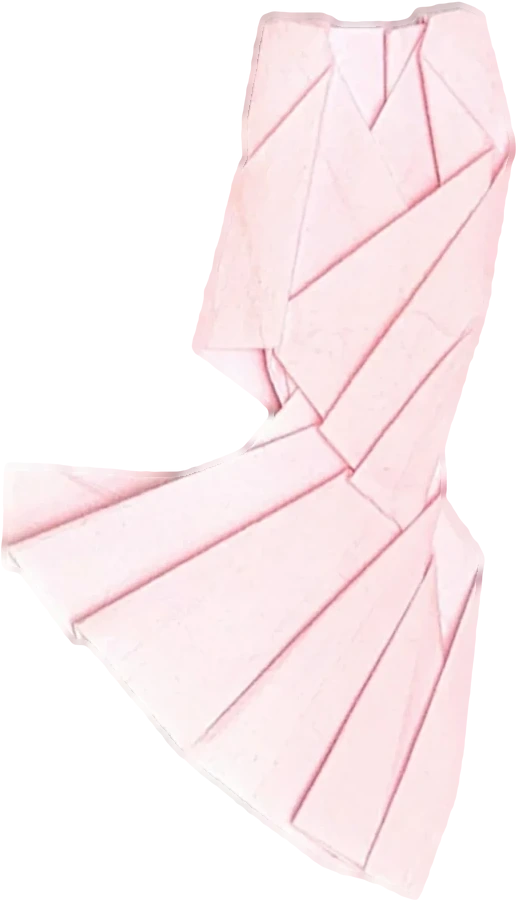
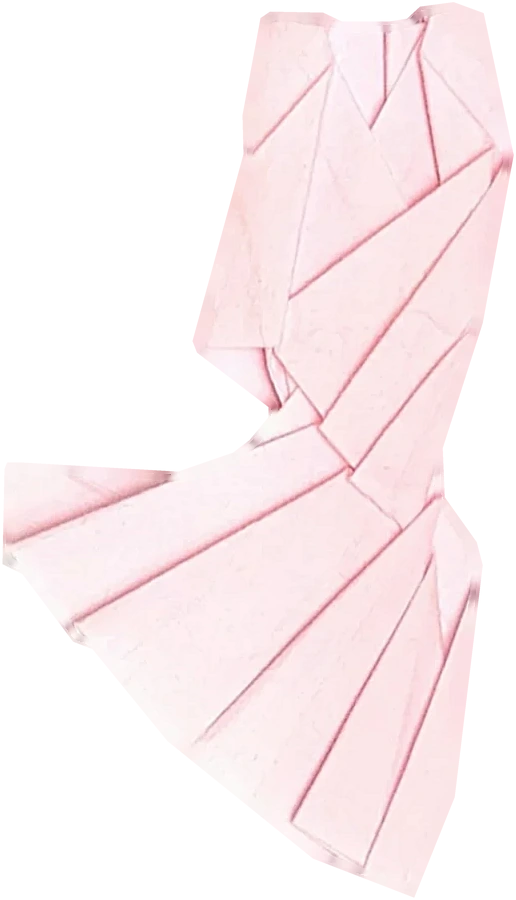
Vector paper edges for garments and pieces; brighter, sharper grading
- Paper cutouts: trace the outline, straighten it into crisp folded-paper edges,
  drop torn scraps, re-render 4x anti-aliased; the outer band is repainted with
  the garment's interior colour so no pale photo fringe remains
- Grading lifted toward the paper's light tone, more of the original colour kept,
  midtones lifted, plus a gentle unsharp mask
- Layer boxes recomputed for the new cutout extents

Claude-Session: https://claude.ai/code/session_01KP2mAidLDQ2RQyfSicXDG6

diff --git a/js/pieces.js b/js/pieces.js
@@ -13,7 +13,7 @@ const PIECES = [
     piece: 'assets/pieces/01/piece.webp',          // the origami piece as folded
     // the fitted look, exactly as in the fit drawing: the garment first, then the accessories
     fit: [
-      { src: 'assets/pieces/01/dress.webp',    x: 7.11, y: 20.67, w: 70.44, h: 188.81 },
+      { src: 'assets/pieces/01/dress.webp',    x: 6.9, y: 20.87, w: 70.65, h: 188.61 },
       { src: 'assets/pieces/01/hair.webp',     x: 32.93, y: -3.5, w: 29.34, h: 22.93 },
       { src: 'assets/pieces/01/bracelet.webp', x: 86.03, y: 112.6, w: 7.44, h: 20.25 },
       { src: 'assets/pieces/01/shoes.webp',    x: 40.37, y: 257.0, w: 19.22, h: 83.26 },
@@ -23,7 +23,7 @@ const PIECES = [
     id: '02',
     piece: 'assets/pieces/02/piece.webp',
     fit: [
-      { src: 'assets/pieces/02/dress.webp',    x: -56.15, y: 44.58, w: 139.86, h: 247.81 },
+      { src: 'assets/pieces/02/dress.webp',    x: -56.35, y: 44.58, w: 140.27, h: 248.01 },
       { src: 'assets/pieces/02/hair.webp',     x: 36.14, y: -2.58, w: 26.63, h: 35.37 },
       { src: 'assets/pieces/02/shoes.webp',    x: 43.26, y: 280.8, w: 13.82, h: 57.53 },
     ],
@@ -32,7 +32,7 @@ const PIECES = [
     id: '03',
     piece: 'assets/pieces/03/piece.webp',
     fit: [
-      { src: 'assets/pieces/03/dress.webp',    x: -6.16, y: 47.47, w: 94.54, h: 241.7 },
+      { src: 'assets/pieces/03/dress.webp',    x: -6.37, y: 47.47, w: 94.33, h: 241.29 },
       { src: 'assets/pieces/03/hair.webp',     x: 35.74, y: -0.51, w: 28.75, h: 32.39 },
       { src: 'assets/pieces/03/shoes.webp',    x: 38.17, y: 288.16, w: 23.89, h: 53.65 },
     ],
